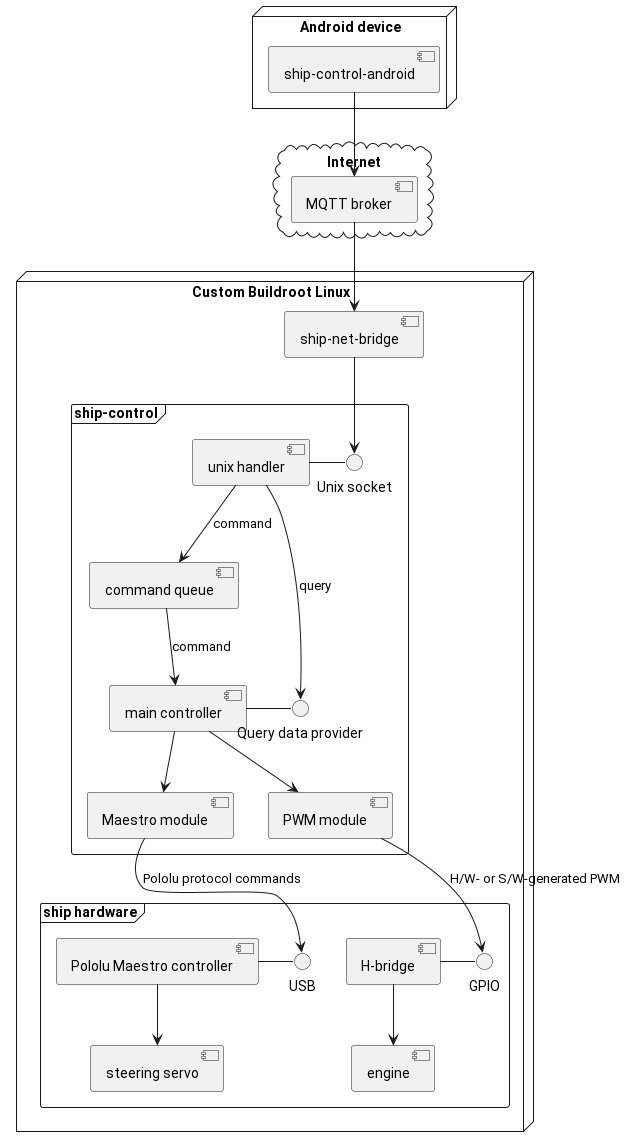
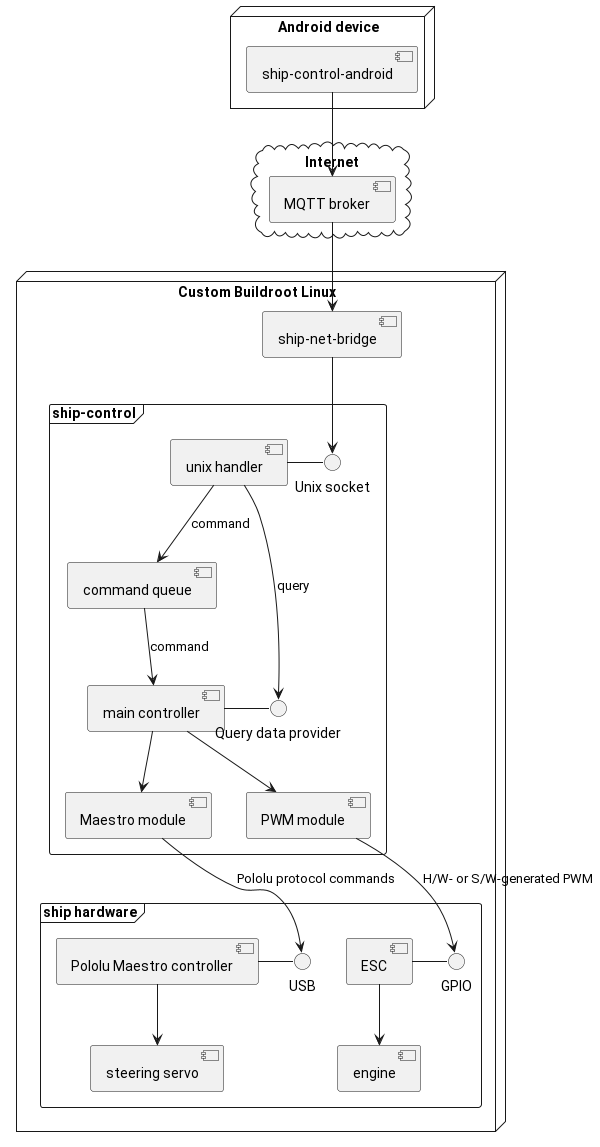
Create README.md and architecture description

diff --git a/README.md b/README.md
@@ -1,0 +1,80 @@
+# Overview
+ship-control is a group of S/W projects enabling operation and remote control of custom-built aquatic vessel based on RaspberryPi.
+
+Current repository contains the ship-control process running on the target board, which is responsible for controlling ship's engine and steering.
+
+Other related repositories:
+
+1. [Linux system](https://github.com/MooseTheBrown/ship-buildroot) - Buildroot Linux system running on the ship's main board
+2. [MQTT bridge](https://github.com/MooseTheBrown/ship-net-bridge) - network bridge enabling MQTT communication for the ship
+3. [Android app](https://github.com/MooseTheBrown/ship-control-android) - Android app gathering ship data and controlling speed and steering
+
+# Architecture
+
+ship-control architecture is described in the [architecture document](./doc/Arch.md)
+
+# Building & installing
+
+ship-control is built using cmake (any version starting from 3.0 is supported).
+
+## Dependencies
+
+ship-control requires the following libraries:
+
+1. libgpiod
+2. boost_program_options
+3. gtest (only for building and running unit tests)
+
+## Compiling
+Run the following commands from directory containing ship-control sources:
+
+    mkdir build
+    cd build
+    cmake ../
+    make
+
+This will produce ship-control executable.
+
+### Running unit tests
+To build unit tests run `cmake -DBUILD_TESTS=ON` and then `make`
+
+This will produce ship-control-test executable, which needs to be run to execute the tests.
+
+## Installing
+Run `make install` to install ship-control.
+
+The easiest way to install ship-control to a RaspberryPi board is to use [customized Buildroot](https://github.com/MooseTheBrown/ship-buildroot), which builds and includes ship-control and ship-net-bridge into the target image.
+
+# Confguring
+Upon starting ship-control reads configuration file /etc/shipcontrol.conf. The file has JSON format.
+
+Sample configuration is provided in [default config](./shipcontrol.conf)
+
+## Configuration parameters
+| Parameter | Type | Required | Description |
+| --------- | ---- | -------- | ----------- |
+| maestro_engines | array | No | Array of objects containing configuration of engines controlled by Pololu Maestro controller |
+| maestro_engine.channel | integer | Yes | Maestro channel number for the engine |
+| maestro_engine.fwd | boolean | No | Engine rotation direction flag. True - forward, false - reverse |
+| maestro_engine.dir_channel | integer | No | Maestro direction channel number |
+| maestro_engine.stop | integer | Yes | Stop value for the engine |
+| maestro_engine.step | integer | Yes | Step value for the engine |
+| maestro_steering | array | No | Array of integers specifying Maestro steering channel numbers |
+| maestro_device | string | No | Path to Maestro character device, e.g. "/dev/ttyACM0" |
+| maestro_steering_calibration | object | No | Pololu Maestro steering channels calibration |
+| maestro_steering_calibration.straight | integer | Yes | Straight steering position |
+| maestro_steering_calibration.step | integer | Yes | Step of steering adjustment |
+| maestro_direction | object | No | Direction channels calibration |
+| maestro_direction.high | integer | No | High value for direction channels |
+| maestro_direction.low | integer | No | Low value for direction channels |
+| gpio_engines | array | No | Array of GPIO engine configuration objects |
+| gpio_engine.chip_path | string | No | Path to GPIO character device, e.g. "/dev/gpiochip0" |
+| gpio_engine.engine_line | integer | No | Engine GPIO line number |
+| gpio_engine.dir_line | integer | No | Engine rotation direction GPIO line number |
+| gpio_engine.pwm_period | integer | Yes | GPIO PWM period in microseconds |
+| gpio_engine.rev_mode | string | No | Reverse mode for the engine. Possible values: "same_line", "dedicated_line", "no_reverse" | 
+| keymap | object | No | Mapping of keyboard events (as reported by evdev) to ship-control actions |
+| relmap | object | No | Mapping of mouse movement events to ship-control actions |
+| unix_socket | string | Yes | Path to unix socket, which ship-control listens to for remote commands |
+| logbackends | array | Yes | Array of strings indicating which log backends ship-control should use. Supported backends: "syslog", "console" |
+| loglevel | string | No | Log level. Possible values: "error", "notice" (default), "debug". |

diff --git a/doc/Arch.md b/doc/Arch.md
@@ -1,0 +1,47 @@
+# Ship-control architecture
+
+## Components
+Ship remote control S/W consists of the following main components:
+
+1. Mobile application. Visualizes current ship data and provides control capabilities.
+2. MQTT broker connecting mobile application with the ship.
+3. Ship S/W receiving commands and queries from MQTT broker, controlling speed and steering of the ship.
+
+The following diagram depicts ship-control components and their interactions:
+
+![Component diagram!](./components.png)
+
+### ship-control-android
+Android application providing GUI for remote ship control. Uses MQTT broker to send commands/queries to the ship and receive responses.
+
+### ship-net-bridge
+Ship-side network bridge. Connects to MQTT broker and relays messages between the broker and unix socket opened by ship-control process.
+
+### ship-control
+Manages ship hardware using Pololu Maestro controller and ESC units (one or more). Maestro controller is connected via USB, ESC units are connected using GPIO lines.
+
+Maestro controller is used to control steering servos.
+
+ESCs manage engines.
+
+ship-control uses either H/W or S/W PWM signals to control ESCs or a combination of both depending on the particular RaspberryPi board model and configuration (older revisions support only 1 H/W PWM GPIO line). H/W PWM is preferred due to much higher frequency setting precision.
+
+ship-control listens to Unix socket for external communications. Commands received from the network bridge are queued for internal processing in the order of reception. Queries are handled synchronously.
+
+## Control sequence
+![Sequence diagram!](./remote_control.png)
+
+1. ship-net-bridge connects to MQTT broker and subscribes to the ship request topic (individual topic for each ship)
+2. ship-control-android subscribes to the common announce topic
+3. ship-net-bridge publishes ship ID on the announce topic every N seconds (N is configurable)
+4. ship-control-android receives ship ID on the announce topic and displays ship list to the user
+5. Once the user selects ship, ship-control-android subscribes to the response topic for the selected ship
+6. ship-control-android starts querying ship data. It publishes queries on the ship request topic
+7. ship-net-bridge relays queries to the unix socket listened by ship-control
+8. ship-control's unix handler uses main control module to fetch current ship data and passes it back to ship-net-bridge
+9. ship-net-bridge publishes ship data on the ship response topic
+10. ship-control-android reads ship data from the response topic and displays it
+11. Once the user changes speed or steering, ship-control-android publishes command on the ship request topic
+12. ship-net-bridge relays command to the unix socket of ship-control
+13. ship-control's unix handler validates incoming command. If validation is successfull, it passes command to internal queue for processing. If validation fails, it sends negative response to ship-net-bridge, which relays it to ship-control-android through the ship response topic
+14. ship-control's main module constantly queries internal command queue. Once new command is received, it handles it by adjusting speed or steering.
